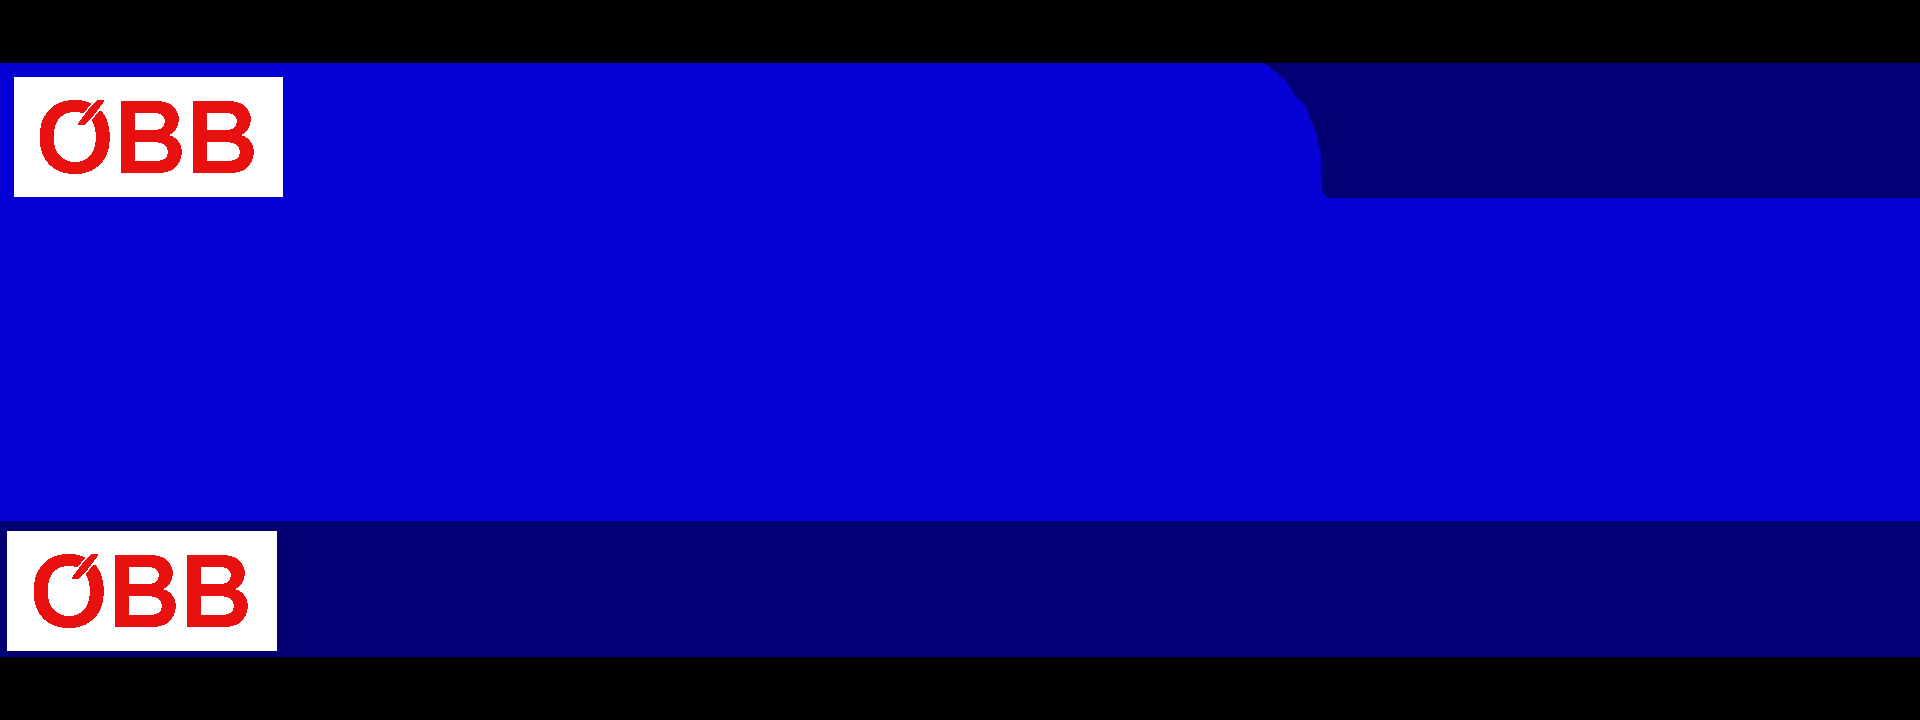
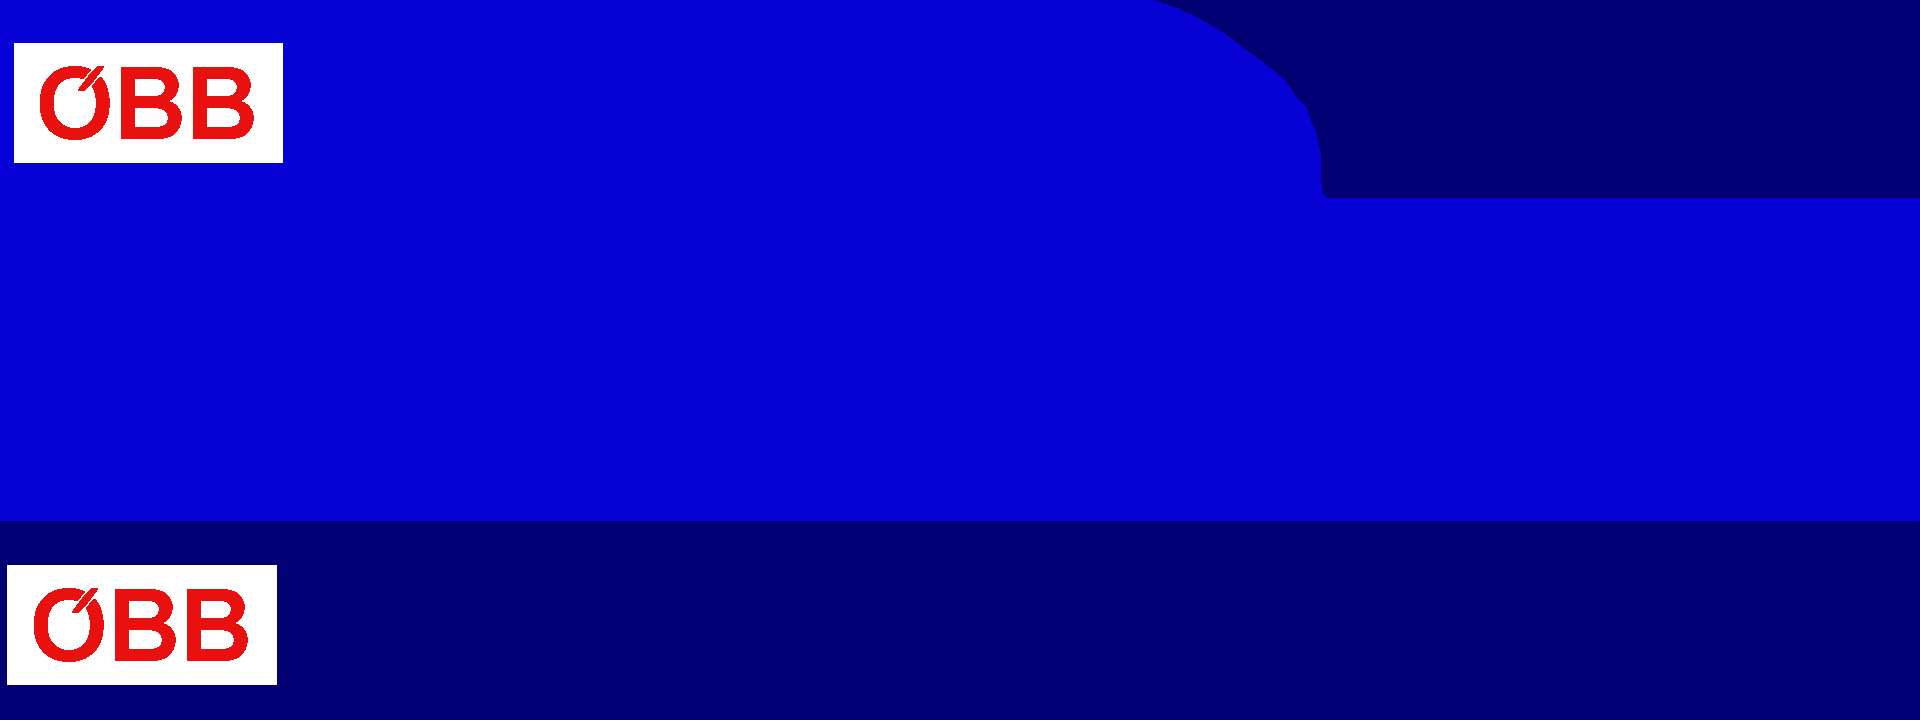
changed the text color of vienna subway + removed the black bars of öbb (2022)

Changed region(s): [[0.0, 0.7333, 1.0, 1.0], [0.0, 0.0, 1.0, 0.275]]

diff --git a/assets/jsblock/scripts/vienna_u_bahn_1a.js b/assets/jsblock/scripts/vienna_u_bahn_1a.js
@@ -18,7 +18,7 @@ function render(ctx, state, pids) {
         .size(11.63, 6)
         .scale(2.4)
         .scaleXY()
-        .color(0xFFFFFF)
+        .color(0xE2FF7A)
         .draw(ctx);
 
         let text = TextUtil.cycleString(arrival_first.destination());
@@ -38,7 +38,7 @@ function render(ctx, state, pids) {
                     .size(45, 6)
                     .scale(2.4)
                     .scaleXY()
-                    .color(0xFFFFFF)
+                    .color(0xE2FF7A)
                     .draw(ctx);
 
                 xOffset += 7.85
@@ -49,7 +49,7 @@ function render(ctx, state, pids) {
                     .size(45, 6)
                     .scale(2.4)
                     .scaleXY()
-                    .color(0xFFFFFF)
+                    .color(0xE2FF7A)
                     .draw(ctx);
 
                 xOffset += 9.3
@@ -61,7 +61,7 @@ function render(ctx, state, pids) {
 
         Text.create("arrival ETA")
         .text(eta)
-        .color(0xffffff)
+        .color(0xE2FF7A)
         .rightAlign()
         .scale(2.4)
         .pos(pids.width + 0.7, 15)
@@ -79,7 +79,7 @@ function render(ctx, state, pids) {
         .size(11.63, 6)
         .scale(2.4)
         .scaleXY()
-        .color(0xFFFFFF)
+        .color(0xE2FF7A)
         .draw(ctx);
 
         let text = TextUtil.cycleString(arrival_second.destination());
@@ -99,7 +99,7 @@ function render(ctx, state, pids) {
                     .size(45, 6)
                     .scale(2.4)
                     .scaleXY()
-                    .color(0xFFFFFF)
+                    .color(0xE2FF7A)
                     .draw(ctx);
 
                 xOffset += 7.85
@@ -110,7 +110,7 @@ function render(ctx, state, pids) {
                     .size(45, 6)
                     .scale(2.4)
                     .scaleXY()
-                    .color(0xFFFFFF)
+                    .color(0xE2FF7A)
                     .draw(ctx);
 
                 xOffset += 9.3
@@ -122,7 +122,7 @@ function render(ctx, state, pids) {
 
         Text.create("arrival_second ETA")
         .text(eta)
-        .color(0xffffff)
+        .color(0xE2FF7A)
         .rightAlign()
         .scale(2.4)
         .pos(pids.width + 0.7, 34.5)

diff --git a/assets/jsblock/scripts/vienna_u_bahn.js b/assets/jsblock/scripts/vienna_u_bahn.js
@@ -18,7 +18,7 @@ function render(ctx, state, pids) {
         .size(12, 6)
         .scale(1.75)
         .scaleXY()
-        .color(0xFFFFFF)
+        .color(0xE2FF7A)
         .draw(ctx);
 
         let text = TextUtil.cycleString(arrival_first.destination());
@@ -38,7 +38,7 @@ function render(ctx, state, pids) {
                     .size(45, 6)
                     .scale(1.7)
                     .scaleXY()
-                    .color(0xFFFFFF)
+                    .color(0xE2FF7A)
                     .draw(ctx);
 
                 xOffset += 5.6
@@ -49,7 +49,7 @@ function render(ctx, state, pids) {
                     .size(45, 6)
                     .scale(1.7)
                     .scaleXY()
-                    .color(0xFFFFFF)
+                    .color(0xE2FF7A)
                     .draw(ctx);
 
                 xOffset += 6.8
@@ -61,7 +61,7 @@ function render(ctx, state, pids) {
 
         Text.create("arrival ETA")
         .text(eta)
-        .color(0xffffff)
+        .color(0xE2FF7A)
         .rightAlign()
         .scale(1.65)
         .pos(pids.width + 0.65, 26.5)
@@ -79,7 +79,7 @@ function render(ctx, state, pids) {
         .size(12, 6)
         .scale(1.75)
         .scaleXY()
-        .color(0xFFFFFF)
+        .color(0xE2FF7A)
         .draw(ctx);
 
         let text = TextUtil.cycleString(arrival_second.destination());
@@ -99,7 +99,7 @@ function render(ctx, state, pids) {
                     .size(45, 6)
                     .scale(1.7)
                     .scaleXY()
-                    .color(0xFFFFFF)
+                    .color(0xE2FF7A)
                     .draw(ctx);
 
                 xOffset += 5.6
@@ -110,7 +110,7 @@ function render(ctx, state, pids) {
                     .size(45, 6)
                     .scale(1.7)
                     .scaleXY()
-                    .color(0xFFFFFF)
+                    .color(0xE2FF7A)
                     .draw(ctx);
 
                 xOffset += 6.8
@@ -122,7 +122,7 @@ function render(ctx, state, pids) {
 
         Text.create("arrival_second ETA")
         .text(eta)
-        .color(0xffffff)
+        .color(0xE2FF7A)
         .rightAlign()
         .scale(1.7)
         .pos(pids.width + 0.65, 42.5)

diff --git a/assets/jsblock/scripts/obb_2022_1a.js b/assets/jsblock/scripts/obb_2022_1a.js
@@ -13,7 +13,7 @@ function render(ctx, state, pids) {
     if(arrival_first != null) {
         Text.create("arrival_first Number Text")
         .text(arrival_first.routeNumber())
-        .pos(29, 7.5)
+        .pos(29, 4.5)
         .leftAlign()
         .size(pids.width - 130, 6)
         .scale(1.55)
@@ -48,7 +48,7 @@ function render(ctx, state, pids) {
     if(arrival_second != null) {
         Text.create("arrival_second Number Text")
             .text(arrival_second.routeNumber())
-            .pos(29, 46.5)
+            .pos(29, 48.5)
             .leftAlign()
             .size(14, 6)
             .scale(1.3)
@@ -58,7 +58,7 @@ function render(ctx, state, pids) {
 
         Text.create("arrival_second destination")
             .text(TextUtil.cycleString(arrival_second.destination()))
-            .pos(49, 46.5)
+            .pos(49, 48.5)
             .size(pids.width - 95, 6)
             .scale(1.3)
             .scaleXY()
@@ -73,7 +73,7 @@ function render(ctx, state, pids) {
             .color(0xffffff)
             .rightAlign()
             .scale(1)
-            .pos(pids.width - 1, 38.5)
+            .pos(pids.width - 1, 40.5)
             .size(48, 24)
             .scaleXY()
             .draw(ctx);
@@ -88,7 +88,7 @@ function render(ctx, state, pids) {
     Text.create("Clock")
         .text(time)
         .color(0xFFFFFF)
-        .pos(pids.width - 2, 7.5)
+        .pos(pids.width - 2, 4.5)
         .scale(0.9)
         .rightAlign()
         .draw(ctx);
